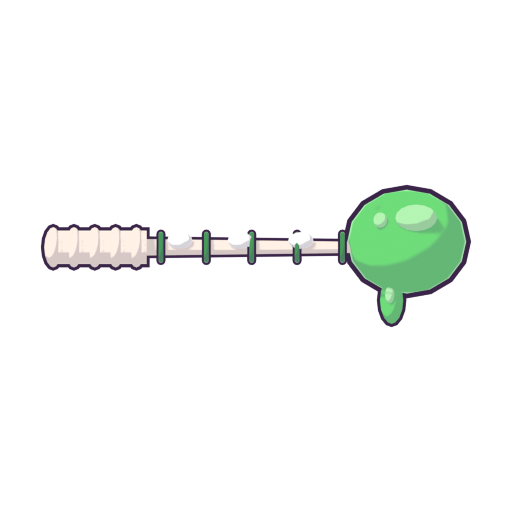
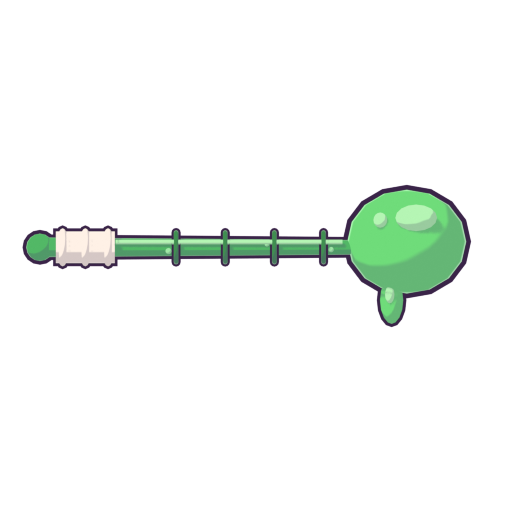
Jelly Wand reads as one hardened goo rod with a small Bunny Fluff grip instead of a white spring
Claude-Session: https://claude.ai/code/session_01Cnp5YLEMizt2p6ijhwv75C

Changed region(s): [[0.0312, 0.4375, 0.6875, 0.5312]]

diff --git a/src/crafting/items/jellywand.ts b/src/crafting/items/jellywand.ts
@@ -3,23 +3,25 @@ const src = (part: string) => `assets/crafting/jellywand-${part}.webp`;
 
 export default {
   id: 'jellywand', duration: 3400,
-  layers: ['fluff-spine', 'goo-wraps', 'goo-crown', 'goo-drip'].map((id) => ({ id, src: src(id) })),
+  layers: ['goo-rod', 'fluff-grip', 'goo-wraps', 'goo-crown', 'goo-drip'].map((id) => ({ id, src: src(id) })),
   complete: src('complete'),
-  roles: { fluff: 'Felted cream spine & cushioned grip', goo: 'Springy wraps & wobbly slime crown' },
+  roles: { goo: 'Hardened rod, springy wraps & wobbly slime crown', fluff: 'Soft felted grip wrap' },
   targets: [
-    { material: 'fluff', part: 'fluff-spine', at: 180, duration: 530, x: .393, y: .483, contact: 'soft', sound: 'craftFluff' },
-    { material: 'goo', part: 'goo-wraps', at: 870, duration: 490, x: .491, y: .483, contact: 'bind', sound: 'craftGoo' },
-    { material: 'goo', part: 'goo-crown', at: 1450, duration: 550, x: .795, y: .472, contact: 'bind', sound: 'craftGoo' },
-    { material: 'goo', part: 'goo-drip', at: 2090, duration: 480, x: .765, y: .586, contact: 'bind', sound: 'craftGoo' },
+    { material: 'goo', part: 'goo-rod', at: 180, duration: 500, x: .45, y: .483, contact: 'solid', sound: 'craftGoo' },
+    { material: 'fluff', part: 'fluff-grip', at: 780, duration: 450, x: .167, y: .482, contact: 'soft', sound: 'craftFluff' },
+    { material: 'goo', part: 'goo-wraps', at: 1330, duration: 440, x: .49, y: .483, contact: 'bind', sound: 'craftGoo' },
+    { material: 'goo', part: 'goo-crown', at: 1850, duration: 500, x: .795, y: .472, contact: 'bind', sound: 'craftGoo' },
+    { material: 'goo', part: 'goo-drip', at: 2420, duration: 400, x: .765, y: .586, contact: 'bind', sound: 'craftGoo' },
   ],
   phases: [
-    { at: 0, stage: 'fluff', text: 'Bunny Fluff, felted into a wand-shaped spine…' },
-    { at: 870, stage: 'binding', text: 'Slime Goo, wrapping the soft spine…' },
-    { at: 1450, stage: 'crown', text: 'A wobbly green crown, settling on top…' },
-    { at: 2090, stage: 'drip', text: 'A little goo drip finds its place…' },
-    { at: 2780, stage: 'reveal', text: 'A soft little wand with a gooey heart.' },
+    { at: 0, stage: 'rod', text: 'Slime Goo, setting into one glassy green rod…' },
+    { at: 780, stage: 'grip', text: 'Bunny Fluff, felted into a soft grip…' },
+    { at: 1330, stage: 'binding', text: 'Goo wraps, hugging the rod…' },
+    { at: 1850, stage: 'crown', text: 'A wobbly green crown, settling on top…' },
+    { at: 2420, stage: 'drip', text: 'A little goo drip finds its place…' },
+    { at: 2900, stage: 'reveal', text: 'A bouncy little wand with a gooey heart.' },
   ],
-  sceneLabel: 'Bunny Fluff is felted into a cream spine and grip. Slime Goo binds it with green wraps and a rounded crown, then settles into a small drip.',
-  pattern: 'fluff carries the magic', intro: 'Fluff, finding its shape. Goo, finding its bounce.',
-  finished: 'Felted Bunny Fluff, wrapped and crowned in Slime Goo.',
+  sceneLabel: 'Slime Goo sets into a solid green rod. Bunny Fluff is felted into a soft grip near the hand. More goo binds the rod with wraps and a rounded crown, then settles into a small drip.',
+  pattern: 'goo carries the magic', intro: 'Goo, finding its shape. Fluff, finding your hand.',
+  finished: 'A hardened Slime Goo rod with a Bunny Fluff grip, crowned in wobbly goo.',
 } satisfies CraftPresentation;

diff --git a/art/gear/jellywand.py b/art/gear/jellywand.py
@@ -1,29 +1,45 @@
-"""Felted fluff spine wrapped in goo, with a large springy slime crown."""
+"""Hardened goo rod with a small felted fluff grip, goo wraps and a springy slime crown."""
 import math
 from lib import cylinder, sphere, toon, torus
-from ._stone_jelly import component, felt_grip, shine, FLUFF, GOO
+from ._stone_jelly import component, shine, FLUFF, GOO
 
 LENGTH = 1.25
 CAMERA = dict(ppu=378.14685182881, anchor=(0.4313320368528366, 0, -0.022999994456768036), elevation=0)
-PARTS = ('fluff-spine', 'goo-wraps', 'goo-crown', 'goo-drip')
+# Keep the level, untilted pose of the shipped meadow-weapon icon and workbench view.
+PREVIEW_ROTATION = (0, 0, 0)
+PREVIEW_SCALE = (1, 1, 1)
+PARTS = ('goo-rod', 'fluff-grip', 'goo-wraps', 'goo-crown', 'goo-drip')
+X = (0, math.pi / 2, 0)
+ROD = '#52b866'
 
 
 def build_weapon(root):
     parts = {}
 
-    def spine():
-        felt_grip(root)
-        cylinder((.4, 0, 0), .031, .62, toon(FLUFF), root,
-                 rot=(0, math.pi / 2, 0), seg=10, r2=.023, line=.01)
+    def rod():
+        # One solid stick of set Slime Goo: a long glassy highlight and a few
+        # suspended bubbles read as translucent without any segmenting.
+        cylinder((.29, 0, 0), .034, .86, toon(ROD, rim=.32), root,
+                 rot=X, seg=12, r2=.027, line=.011)
+        sphere((-.14, 0, 0), (.046, .046, .046), toon(ROD, rim=.32), root, seg=12, line=.01)
+        cylinder((.36, -.03, .014), .007, .6, toon('#b5f5b4', rim=.1), root,
+                 rot=X, seg=6, line=0)
+        for x, z, r in ((.2, -.01, .008), (.46, .008, .006), (.63, -.006, .007)):
+            sphere((x, -.029, z), (r, r * .6, r), toon('#9fe8a6', rim=.1), root, seg=8, line=0)
+    component(parts, 'goo-rod', rod)
+
+    def grip():
+        # Bunny Fluff: only a short, soft felted wrap where the hand goes.
+        cylinder((-.02, 0, 0), .05, .17, toon(FLUFF), root, rot=X, seg=12, line=.011)
         for i in range(3):
-            sphere((.23 + i * .16, -.028, .018), (.033, .012, .022),
-                   toon('#ffffff'), root, seg=8, line=0)
-    component(parts, 'fluff-spine', spine)
+            sphere((-.08 + i * .06, 0, 0), (.028, .058, .058), toon(FLUFF), root,
+                   seg=10, line=.008)
+    component(parts, 'fluff-grip', grip)
 
     def wraps():
-        for i in range(5):
-            torus((.18 + i * .12, 0, 0), .035, .012, toon('#459c58'),
-                  root, rot=(0, math.pi / 2, 0), seg=12, line=.006)
+        for i in range(4):
+            torus((.22 + i * .13, 0, 0), .039, .012, toon('#3f8f50'),
+                  root, rot=X, seg=12, line=.006)
     component(parts, 'goo-wraps', wraps)
 
     def crown():
